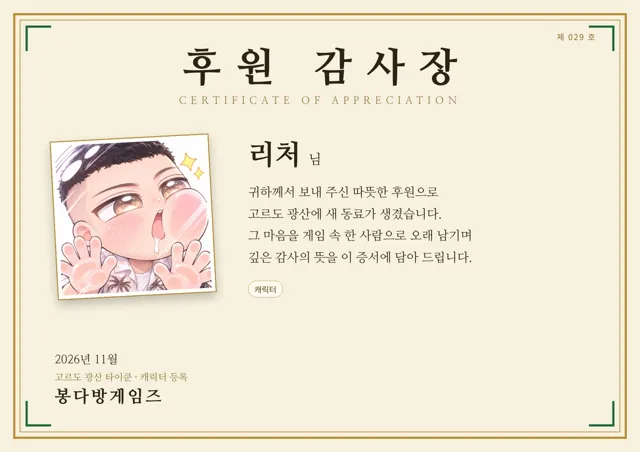
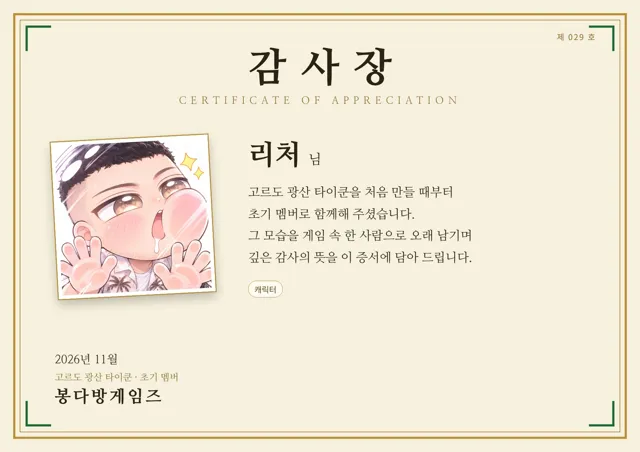
후원자 자료실: 초기 멤버 9명을 초기 멤버 감사장으로
Claude-Session: https://claude.ai/code/session_01N6H5VQBDFZPFAg9Lsr8QZh

diff --git a/sponsors/index.html b/sponsors/index.html
@@ -94,7 +94,7 @@ footer{color:var(--dim);font-size:12px;text-align:center;padding:28px 0 40px}
 <details class="more"><summary><span class="op">자료 펼치기 ▼</span><span class="cl">접기 ▲</span></summary><h3>기념 디자인</h3><div class="grid des"><figure class="wide"><a href="nhj/나화진_후원감사장.jpg" target="_blank" rel="noopener"><img src="nhj/s/나화진_후원감사장.webp" alt="나화진 후원 감사장" loading="lazy"></a><figcaption>후원 감사장</figcaption></figure></div><h3>원본 그림</h3><div class="grid org"><figure class=""><a href="nhj/나화진_프로필.png" target="_blank" rel="noopener"><img src="nhj/s/나화진_프로필.webp" alt="나화진 프로필" loading="lazy"></a><figcaption>프로필</figcaption></figure></div></details></section>
 <section class="sp cut" id="unk36" data-n="대두"><div class="sh"><img src="unk36/s/대두_프로필.webp" alt=""><div><b>대두</b><span class="tag reg">캐릭터 등록</span><div class="chips"><span>캐릭터</span></div></div></div>
 <details class="more"><summary><span class="op">자료 펼치기 ▼</span><span class="cl">접기 ▲</span></summary><h3>기념 디자인</h3><div class="grid des"><figure class="wide"><a href="unk36/대두_후원감사장.jpg" target="_blank" rel="noopener"><img src="unk36/s/대두_후원감사장.webp" alt="대두 후원 감사장" loading="lazy"></a><figcaption>후원 감사장</figcaption></figure></div><h3>원본 그림</h3><div class="grid org"><figure class=""><a href="unk36/대두_프로필.png" target="_blank" rel="noopener"><img src="unk36/s/대두_프로필.webp" alt="대두 프로필" loading="lazy"></a><figcaption>프로필</figcaption></figure></div></details></section>
-<section class="sp cut" id="unk0" data-n="리처"><div class="sh"><img src="unk0/s/리처_프로필.webp" alt=""><div><b>리처</b><span class="tag reg">캐릭터 등록</span><div class="chips"><span>캐릭터</span></div></div></div>
+<section class="sp cut" id="unk0" data-n="리처"><div class="sh"><img src="unk0/s/리처_프로필.webp" alt=""><div><b>리처</b><span class="tag init">초기 멤버</span><div class="chips"><span>캐릭터</span></div></div></div>
 <details class="more"><summary><span class="op">자료 펼치기 ▼</span><span class="cl">접기 ▲</span></summary><h3>기념 디자인</h3><div class="grid des"><figure class="wide"><a href="unk0/리처_후원감사장.jpg" target="_blank" rel="noopener"><img src="unk0/s/리처_후원감사장.webp" alt="리처 후원 감사장" loading="lazy"></a><figcaption>후원 감사장</figcaption></figure></div><h3>원본 그림</h3><div class="grid org"><figure class=""><a href="unk0/리처_프로필.png" target="_blank" rel="noopener"><img src="unk0/s/리처_프로필.webp" alt="리처 프로필" loading="lazy"></a><figcaption>프로필</figcaption></figure></div></details></section>
 <section class="sp cut" id="pdg" data-n="박대갈"><div class="sh"><img src="pdg/s/박대갈_프로필.webp" alt=""><div><b>박대갈</b><span class="tag reg">캐릭터 등록</span><div class="chips"><span>캐릭터</span><span>광산 모션</span><span>캐릭터 뱃지</span></div></div></div>
 <details class="more"><summary><span class="op">자료 펼치기 ▼</span><span class="cl">접기 ▲</span></summary><h3>기념 디자인</h3><div class="grid des"><figure class="wide"><a href="pdg/박대갈_후원감사장.jpg" target="_blank" rel="noopener"><img src="pdg/s/박대갈_후원감사장.webp" alt="박대갈 후원 감사장" loading="lazy"></a><figcaption>후원 감사장</figcaption></figure></div><h3>원본 그림</h3><div class="grid org"><figure class=""><a href="pdg/박대갈_프로필.png" target="_blank" rel="noopener"><img src="pdg/s/박대갈_프로필.webp" alt="박대갈 프로필" loading="lazy"></a><figcaption>프로필</figcaption></figure><figure class=""><a href="pdg/박대갈_캐릭터뱃지.png" target="_blank" rel="noopener"><img src="pdg/s/박대갈_캐릭터뱃지.webp" alt="박대갈 캐릭터 뱃지" loading="lazy"></a><figcaption>캐릭터 뱃지</figcaption></figure><figure class="px"><a href="pdg/박대갈_광산모션.gif" target="_blank" rel="noopener"><img src="pdg/박대갈_광산모션.gif" alt="박대갈 광산 모션" loading="lazy"></a><figcaption>광산 모션</figcaption></figure></div></details></section>
@@ -102,7 +102,7 @@ footer{color:var(--dim);font-size:12px;text-align:center;padding:28px 0 40px}
 <details class="more"><summary><span class="op">자료 펼치기 ▼</span><span class="cl">접기 ▲</span></summary><h3>기념 디자인</h3><div class="grid des"><figure class="wide"><a href="bno/배나온_후원감사장.jpg" target="_blank" rel="noopener"><img src="bno/s/배나온_후원감사장.webp" alt="배나온 후원 감사장" loading="lazy"></a><figcaption>후원 감사장</figcaption></figure></div><h3>원본 그림</h3><div class="grid org"><figure class=""><a href="bno/배나온_프로필.png" target="_blank" rel="noopener"><img src="bno/s/배나온_프로필.webp" alt="배나온 프로필" loading="lazy"></a><figcaption>프로필</figcaption></figure><figure class=""><a href="bno/배나온_캐릭터뱃지.png" target="_blank" rel="noopener"><img src="bno/s/배나온_캐릭터뱃지.webp" alt="배나온 캐릭터 뱃지" loading="lazy"></a><figcaption>캐릭터 뱃지</figcaption></figure><figure class="px"><a href="bno/배나온_광산모션.gif" target="_blank" rel="noopener"><img src="bno/배나온_광산모션.gif" alt="배나온 광산 모션" loading="lazy"></a><figcaption>광산 모션</figcaption></figure></div></details></section>
 <section class="sp cut" id="bhn" data-n="백하늘"><div class="sh"><img src="bhn/s/백하늘_프로필.webp" alt=""><div><b>백하늘</b><span class="tag name">이름 후원</span><div class="chips"><span>캐릭터</span><span>이름 지정</span></div></div></div>
 <details class="more"><summary><span class="op">자료 펼치기 ▼</span><span class="cl">접기 ▲</span></summary><h3>기념 디자인</h3><div class="grid des"><figure class="wide"><a href="bhn/백하늘_후원감사장.jpg" target="_blank" rel="noopener"><img src="bhn/s/백하늘_후원감사장.webp" alt="백하늘 후원 감사장" loading="lazy"></a><figcaption>후원 감사장</figcaption></figure></div><h3>원본 그림</h3><div class="grid org"><figure class=""><a href="bhn/백하늘_프로필.png" target="_blank" rel="noopener"><img src="bhn/s/백하늘_프로필.webp" alt="백하늘 프로필" loading="lazy"></a><figcaption>프로필</figcaption></figure></div></details></section>
-<section class="sp cut" id="unk19" data-n="봄리덤"><div class="sh"><img src="unk19/s/봄리덤_프로필.webp" alt=""><div><b>봄리덤</b><span class="tag reg">캐릭터 등록</span><div class="chips"><span>캐릭터</span></div></div></div>
+<section class="sp cut" id="unk19" data-n="봄리덤"><div class="sh"><img src="unk19/s/봄리덤_프로필.webp" alt=""><div><b>봄리덤</b><span class="tag init">초기 멤버</span><div class="chips"><span>캐릭터</span></div></div></div>
 <details class="more"><summary><span class="op">자료 펼치기 ▼</span><span class="cl">접기 ▲</span></summary><h3>기념 디자인</h3><div class="grid des"><figure class="wide"><a href="unk19/봄리덤_후원감사장.jpg" target="_blank" rel="noopener"><img src="unk19/s/봄리덤_후원감사장.webp" alt="봄리덤 후원 감사장" loading="lazy"></a><figcaption>후원 감사장</figcaption></figure></div><h3>원본 그림</h3><div class="grid org"><figure class=""><a href="unk19/봄리덤_프로필.png" target="_blank" rel="noopener"><img src="unk19/s/봄리덤_프로필.webp" alt="봄리덤 프로필" loading="lazy"></a><figcaption>프로필</figcaption></figure></div></details></section>
 <section class="sp cut" id="sgy" data-n="사고요"><div class="sh"><img src="sgy/s/사고요_프로필.webp" alt=""><div><b>사고요</b><span class="tag reg">캐릭터 등록</span><div class="chips"><span>캐릭터</span><span>광산 모션</span><span>캐릭터 뱃지</span></div></div></div>
 <details class="more"><summary><span class="op">자료 펼치기 ▼</span><span class="cl">접기 ▲</span></summary><h3>기념 디자인</h3><div class="grid des"><figure class="wide"><a href="sgy/사고요_후원감사장.jpg" target="_blank" rel="noopener"><img src="sgy/s/사고요_후원감사장.webp" alt="사고요 후원 감사장" loading="lazy"></a><figcaption>후원 감사장</figcaption></figure></div><h3>원본 그림</h3><div class="grid org"><figure class=""><a href="sgy/사고요_프로필.png" target="_blank" rel="noopener"><img src="sgy/s/사고요_프로필.webp" alt="사고요 프로필" loading="lazy"></a><figcaption>프로필</figcaption></figure><figure class=""><a href="sgy/사고요_캐릭터뱃지.png" target="_blank" rel="noopener"><img src="sgy/s/사고요_캐릭터뱃지.webp" alt="사고요 캐릭터 뱃지" loading="lazy"></a><figcaption>캐릭터 뱃지</figcaption></figure><figure class="px"><a href="sgy/사고요_광산모션.gif" target="_blank" rel="noopener"><img src="sgy/사고요_광산모션.gif" alt="사고요 광산 모션" loading="lazy"></a><figcaption>광산 모션</figcaption></figure></div></details></section>
@@ -140,6 +140,20 @@ footer{color:var(--dim);font-size:12px;text-align:center;padding:28px 0 40px}
 <details class="more"><summary><span class="op">자료 펼치기 ▼</span><span class="cl">접기 ▲</span></summary><h3>기념 디자인</h3><div class="grid des"><figure class="wide"><a href="crew/크루_후원감사장.jpg" target="_blank" rel="noopener"><img src="crew/s/크루_후원감사장.webp" alt="크루 후원 감사장" loading="lazy"></a><figcaption>후원 감사장</figcaption></figure></div><h3>원본 그림</h3><div class="grid org"><figure class=""><a href="crew/크루_프로필.png" target="_blank" rel="noopener"><img src="crew/s/크루_프로필.webp" alt="크루 프로필" loading="lazy"></a><figcaption>프로필</figcaption></figure></div></details></section>
 <section class="sp cut" id="hdm" data-n="황동만"><div class="sh"><img src="hdm/s/황동만_프로필.webp" alt=""><div><b>황동만</b><span class="tag card">카드 후원</span><div class="chips"><span>캐릭터</span><span>이름 지정</span><span>프로필 2모습</span><span>광산 모션</span><span>캐릭터 카드</span></div></div></div>
 <details class="more"><summary><span class="op">자료 펼치기 ▼</span><span class="cl">접기 ▲</span></summary><h3>기념 디자인</h3><div class="grid des"><figure class="wide"><a href="hdm/황동만_후원감사장.jpg" target="_blank" rel="noopener"><img src="hdm/s/황동만_후원감사장.webp" alt="황동만 후원 감사장" loading="lazy"></a><figcaption>후원 감사장</figcaption></figure></div><h3>원본 그림</h3><div class="grid org"><figure class=""><a href="hdm/황동만_프로필.png" target="_blank" rel="noopener"><img src="hdm/s/황동만_프로필.webp" alt="황동만 프로필" loading="lazy"></a><figcaption>프로필</figcaption></figure><figure class=""><a href="hdm/황동만_프로필2모습.png" target="_blank" rel="noopener"><img src="hdm/s/황동만_프로필2모습.webp" alt="황동만 프로필 2모습" loading="lazy"></a><figcaption>프로필 2모습</figcaption></figure><figure class="tall"><a href="hdm/황동만_캐릭터카드.png" target="_blank" rel="noopener"><img src="hdm/s/황동만_캐릭터카드.webp" alt="황동만 캐릭터 카드" loading="lazy"></a><figcaption>캐릭터 카드</figcaption></figure><figure class="px"><a href="hdm/황동만_광산모션.gif" target="_blank" rel="noopener"><img src="hdm/황동만_광산모션.gif" alt="황동만 광산 모션" loading="lazy"></a><figcaption>광산 모션</figcaption></figure></div></details></section>
+<section class="sp cut" id="unk1" data-n="초기 멤버"><div class="sh"><img src="unk1/s/초기 멤버_프로필.webp" alt=""><div><b>초기 멤버</b><span class="tag init">초기 멤버</span><div class="chips"><span>캐릭터</span></div></div></div>
+<details class="more"><summary><span class="op">자료 펼치기 ▼</span><span class="cl">접기 ▲</span></summary><h3>기념 디자인</h3><div class="grid des"><figure class="wide"><a href="unk1/초기 멤버_후원감사장.jpg" target="_blank" rel="noopener"><img src="unk1/s/초기 멤버_후원감사장.webp" alt="초기 멤버 후원 감사장" loading="lazy"></a><figcaption>후원 감사장</figcaption></figure></div><h3>원본 그림</h3><div class="grid org"><figure class=""><a href="unk1/초기 멤버_프로필.png" target="_blank" rel="noopener"><img src="unk1/s/초기 멤버_프로필.webp" alt="초기 멤버 프로필" loading="lazy"></a><figcaption>프로필</figcaption></figure></div></details></section>
+<section class="sp cut" id="unk4" data-n="초기 멤버"><div class="sh"><img src="unk4/s/초기 멤버_프로필.webp" alt=""><div><b>초기 멤버</b><span class="tag init">초기 멤버</span><div class="chips"><span>캐릭터</span></div></div></div>
+<details class="more"><summary><span class="op">자료 펼치기 ▼</span><span class="cl">접기 ▲</span></summary><h3>기념 디자인</h3><div class="grid des"><figure class="wide"><a href="unk4/초기 멤버_후원감사장.jpg" target="_blank" rel="noopener"><img src="unk4/s/초기 멤버_후원감사장.webp" alt="초기 멤버 후원 감사장" loading="lazy"></a><figcaption>후원 감사장</figcaption></figure></div><h3>원본 그림</h3><div class="grid org"><figure class=""><a href="unk4/초기 멤버_프로필.png" target="_blank" rel="noopener"><img src="unk4/s/초기 멤버_프로필.webp" alt="초기 멤버 프로필" loading="lazy"></a><figcaption>프로필</figcaption></figure></div></details></section>
+<section class="sp cut" id="unk11" data-n="초기 멤버"><div class="sh"><img src="unk11/s/초기 멤버_프로필.webp" alt=""><div><b>초기 멤버</b><span class="tag init">초기 멤버</span><div class="chips"><span>캐릭터</span></div></div></div>
+<details class="more"><summary><span class="op">자료 펼치기 ▼</span><span class="cl">접기 ▲</span></summary><h3>기념 디자인</h3><div class="grid des"><figure class="wide"><a href="unk11/초기 멤버_후원감사장.jpg" target="_blank" rel="noopener"><img src="unk11/s/초기 멤버_후원감사장.webp" alt="초기 멤버 후원 감사장" loading="lazy"></a><figcaption>후원 감사장</figcaption></figure></div><h3>원본 그림</h3><div class="grid org"><figure class=""><a href="unk11/초기 멤버_프로필.png" target="_blank" rel="noopener"><img src="unk11/s/초기 멤버_프로필.webp" alt="초기 멤버 프로필" loading="lazy"></a><figcaption>프로필</figcaption></figure></div></details></section>
+<section class="sp cut" id="unk12" data-n="초기 멤버"><div class="sh"><img src="unk12/s/초기 멤버_프로필.webp" alt=""><div><b>초기 멤버</b><span class="tag init">초기 멤버</span><div class="chips"><span>캐릭터</span></div></div></div>
+<details class="more"><summary><span class="op">자료 펼치기 ▼</span><span class="cl">접기 ▲</span></summary><h3>기념 디자인</h3><div class="grid des"><figure class="wide"><a href="unk12/초기 멤버_후원감사장.jpg" target="_blank" rel="noopener"><img src="unk12/s/초기 멤버_후원감사장.webp" alt="초기 멤버 후원 감사장" loading="lazy"></a><figcaption>후원 감사장</figcaption></figure></div><h3>원본 그림</h3><div class="grid org"><figure class=""><a href="unk12/초기 멤버_프로필.png" target="_blank" rel="noopener"><img src="unk12/s/초기 멤버_프로필.webp" alt="초기 멤버 프로필" loading="lazy"></a><figcaption>프로필</figcaption></figure></div></details></section>
+<section class="sp cut" id="unk13" data-n="초기 멤버"><div class="sh"><img src="unk13/s/초기 멤버_프로필.webp" alt=""><div><b>초기 멤버</b><span class="tag init">초기 멤버</span><div class="chips"><span>캐릭터</span></div></div></div>
+<details class="more"><summary><span class="op">자료 펼치기 ▼</span><span class="cl">접기 ▲</span></summary><h3>기념 디자인</h3><div class="grid des"><figure class="wide"><a href="unk13/초기 멤버_후원감사장.jpg" target="_blank" rel="noopener"><img src="unk13/s/초기 멤버_후원감사장.webp" alt="초기 멤버 후원 감사장" loading="lazy"></a><figcaption>후원 감사장</figcaption></figure></div><h3>원본 그림</h3><div class="grid org"><figure class=""><a href="unk13/초기 멤버_프로필.png" target="_blank" rel="noopener"><img src="unk13/s/초기 멤버_프로필.webp" alt="초기 멤버 프로필" loading="lazy"></a><figcaption>프로필</figcaption></figure></div></details></section>
+<section class="sp cut" id="unk16" data-n="초기 멤버"><div class="sh"><img src="unk16/s/초기 멤버_프로필.webp" alt=""><div><b>초기 멤버</b><span class="tag init">초기 멤버</span><div class="chips"><span>캐릭터</span></div></div></div>
+<details class="more"><summary><span class="op">자료 펼치기 ▼</span><span class="cl">접기 ▲</span></summary><h3>기념 디자인</h3><div class="grid des"><figure class="wide"><a href="unk16/초기 멤버_후원감사장.jpg" target="_blank" rel="noopener"><img src="unk16/s/초기 멤버_후원감사장.webp" alt="초기 멤버 후원 감사장" loading="lazy"></a><figcaption>후원 감사장</figcaption></figure></div><h3>원본 그림</h3><div class="grid org"><figure class=""><a href="unk16/초기 멤버_프로필.png" target="_blank" rel="noopener"><img src="unk16/s/초기 멤버_프로필.webp" alt="초기 멤버 프로필" loading="lazy"></a><figcaption>프로필</figcaption></figure></div></details></section>
+<section class="sp cut" id="unk17" data-n="초기 멤버"><div class="sh"><img src="unk17/s/초기 멤버_프로필.webp" alt=""><div><b>초기 멤버</b><span class="tag init">초기 멤버</span><div class="chips"><span>캐릭터</span></div></div></div>
+<details class="more"><summary><span class="op">자료 펼치기 ▼</span><span class="cl">접기 ▲</span></summary><h3>기념 디자인</h3><div class="grid des"><figure class="wide"><a href="unk17/초기 멤버_후원감사장.jpg" target="_blank" rel="noopener"><img src="unk17/s/초기 멤버_후원감사장.webp" alt="초기 멤버 후원 감사장" loading="lazy"></a><figcaption>후원 감사장</figcaption></figure></div><h3>원본 그림</h3><div class="grid org"><figure class=""><a href="unk17/초기 멤버_프로필.png" target="_blank" rel="noopener"><img src="unk17/s/초기 멤버_프로필.webp" alt="초기 멤버 프로필" loading="lazy"></a><figcaption>프로필</figcaption></figure></div></details></section>
 
 </div>
 <script>const Q=document.getElementById("q"),SS=[...document.querySelectorAll(".sp")];function fl(){const v=Q.value.replace(/\s/g,"");let n=0;SS.forEach(s=>{const h=!!v&&!s.dataset.n.includes(v);s.hidden=h;if(!h)n++});document.getElementById("cnt").textContent=v?n+"명":"전체 "+SS.length+"명";document.getElementById("none").hidden=n>0;if(v&&n===1){const d=SS.find(s=>!s.hidden).querySelector("details");d.open=true}}Q.addEventListener("input",fl);fl();
